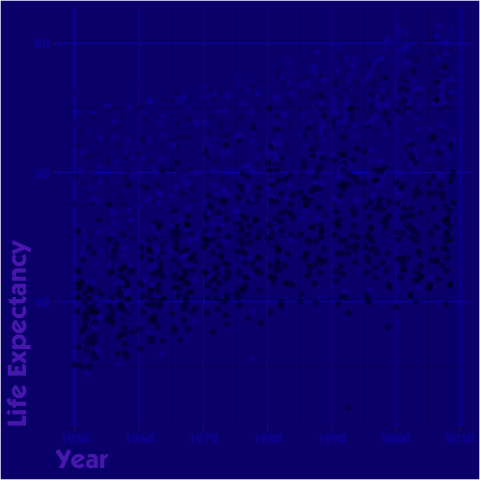
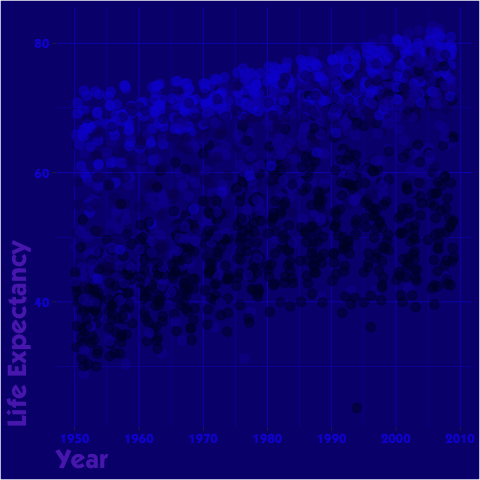
Tweak styles

diff --git a/README.md b/README.md
@@ -1,24 +1,28 @@
 
 ``` r
 library(ggplot2)
-library(extrafont)
 library(gapminder)
 ```
 
 # Isn’t Anything (1988)
 
 ``` r
-isnt_anything <- ggplot(gapminder, aes(x = continent, y = gdpPercap, colour = continent)) +
+isnt_anything <- ggplot(gapminder, aes(
+  x = continent, y = gdpPercap,
+  fill = continent, colour = continent
+)) +
   geom_boxplot() +
-  scale_colour_manual(values = c("#ECD5AB", "#E7CFB5", "#EBCDC2", "#AC6B65", "#BD9188")) +
+  scale_fill_manual(values = c("#F3E5CC", "#EEDDCB", "#F3e1DA", "#CDA6A2", "#D0B2AB")) +
+  scale_color_manual(values = c("#ECD5AB", "#E7CFB5", "#EBCDC2", "#AC6B65", "#BD9188")) +
   labs(title = "GDP per capita by continent") +
   theme(
     plot.background = element_rect(fill = "#F3EED0"),
     panel.background = element_rect(fill = "#F3EEDA"),
-    plot.title = element_text(colour = "#4A1108", family = "ITC Kabel Std Book"),
+    plot.title = element_text(colour = "#4A1108", family = "ITC Kabel Std Book", size = 20),
+    plot.title.position = "plot",
     panel.grid.major = element_line(colour = "#E9E6D3"),
     panel.grid.minor = element_line(colour = "#E0C79F"),
-    axis.text = element_text(colour = "#4A1108", family = "ITC Kabel Std Book"),
+    axis.text = element_text(colour = "#4A1108", family = "ITC Kabel Std Book", size = 15),
     axis.title = element_blank(),
     legend.position = "none"
   )
@@ -32,7 +36,7 @@ isnt_anything
 
 ``` r
 loveless <- ggplot(gapminder, aes(x = lifeExp, y = gdpPercap, colour = continent)) +
-  geom_jitter(alpha = 0.75) +
+  geom_jitter(size = 4, alpha = 0.25) +
   scale_colour_manual(values = c("#000000", "#BE1D22", "#CD1A44", "#932025", "#E1216E")) +
   scale_y_continuous(limits = c(0, 30000)) +
   labs(caption = "GDP per capita versus life expectancy") +
@@ -57,18 +61,18 @@ loveless
 
 ``` r
 mbv <- ggplot(gapminder, aes(x = year, y = lifeExp, colour = continent)) +
-  geom_jitter(alpha = 0.5) +
-  scale_colour_manual(values = rev(c("#1112B8", "#0b0c80", "#1412A3", "#0a0861", "#00052F"))) +
+  geom_jitter(size = 3, alpha = 0.5) +
+  scale_colour_manual(values = rev(c("#1518D5", "#1513D6", "#1412A3", "#0a0861", "#00052F"))) +
   labs(x = "Year", y = "Life Expectancy") +
   theme_dark(base_family = "ITC Kabel Std Bold", ) +
   theme(
     plot.background = element_rect(fill = "#090B7C"),
     panel.background = element_rect(fill = "#090B7C"),
     panel.grid.major = element_line(colour = "#1519D0"),
-    panel.grid.minor = element_line(colour = "#020339"),
+    panel.grid.minor = element_line(colour = "#1518D5"),
     legend.position = "none",
     axis.title = element_text(colour = "#5A31BB", size = 20, hjust = 0),
-    axis.text = element_text(colour = "#1007A0", size = 10)
+    axis.text = element_text(colour = "#1518D5", size = 10)
   )
 
 mbv
